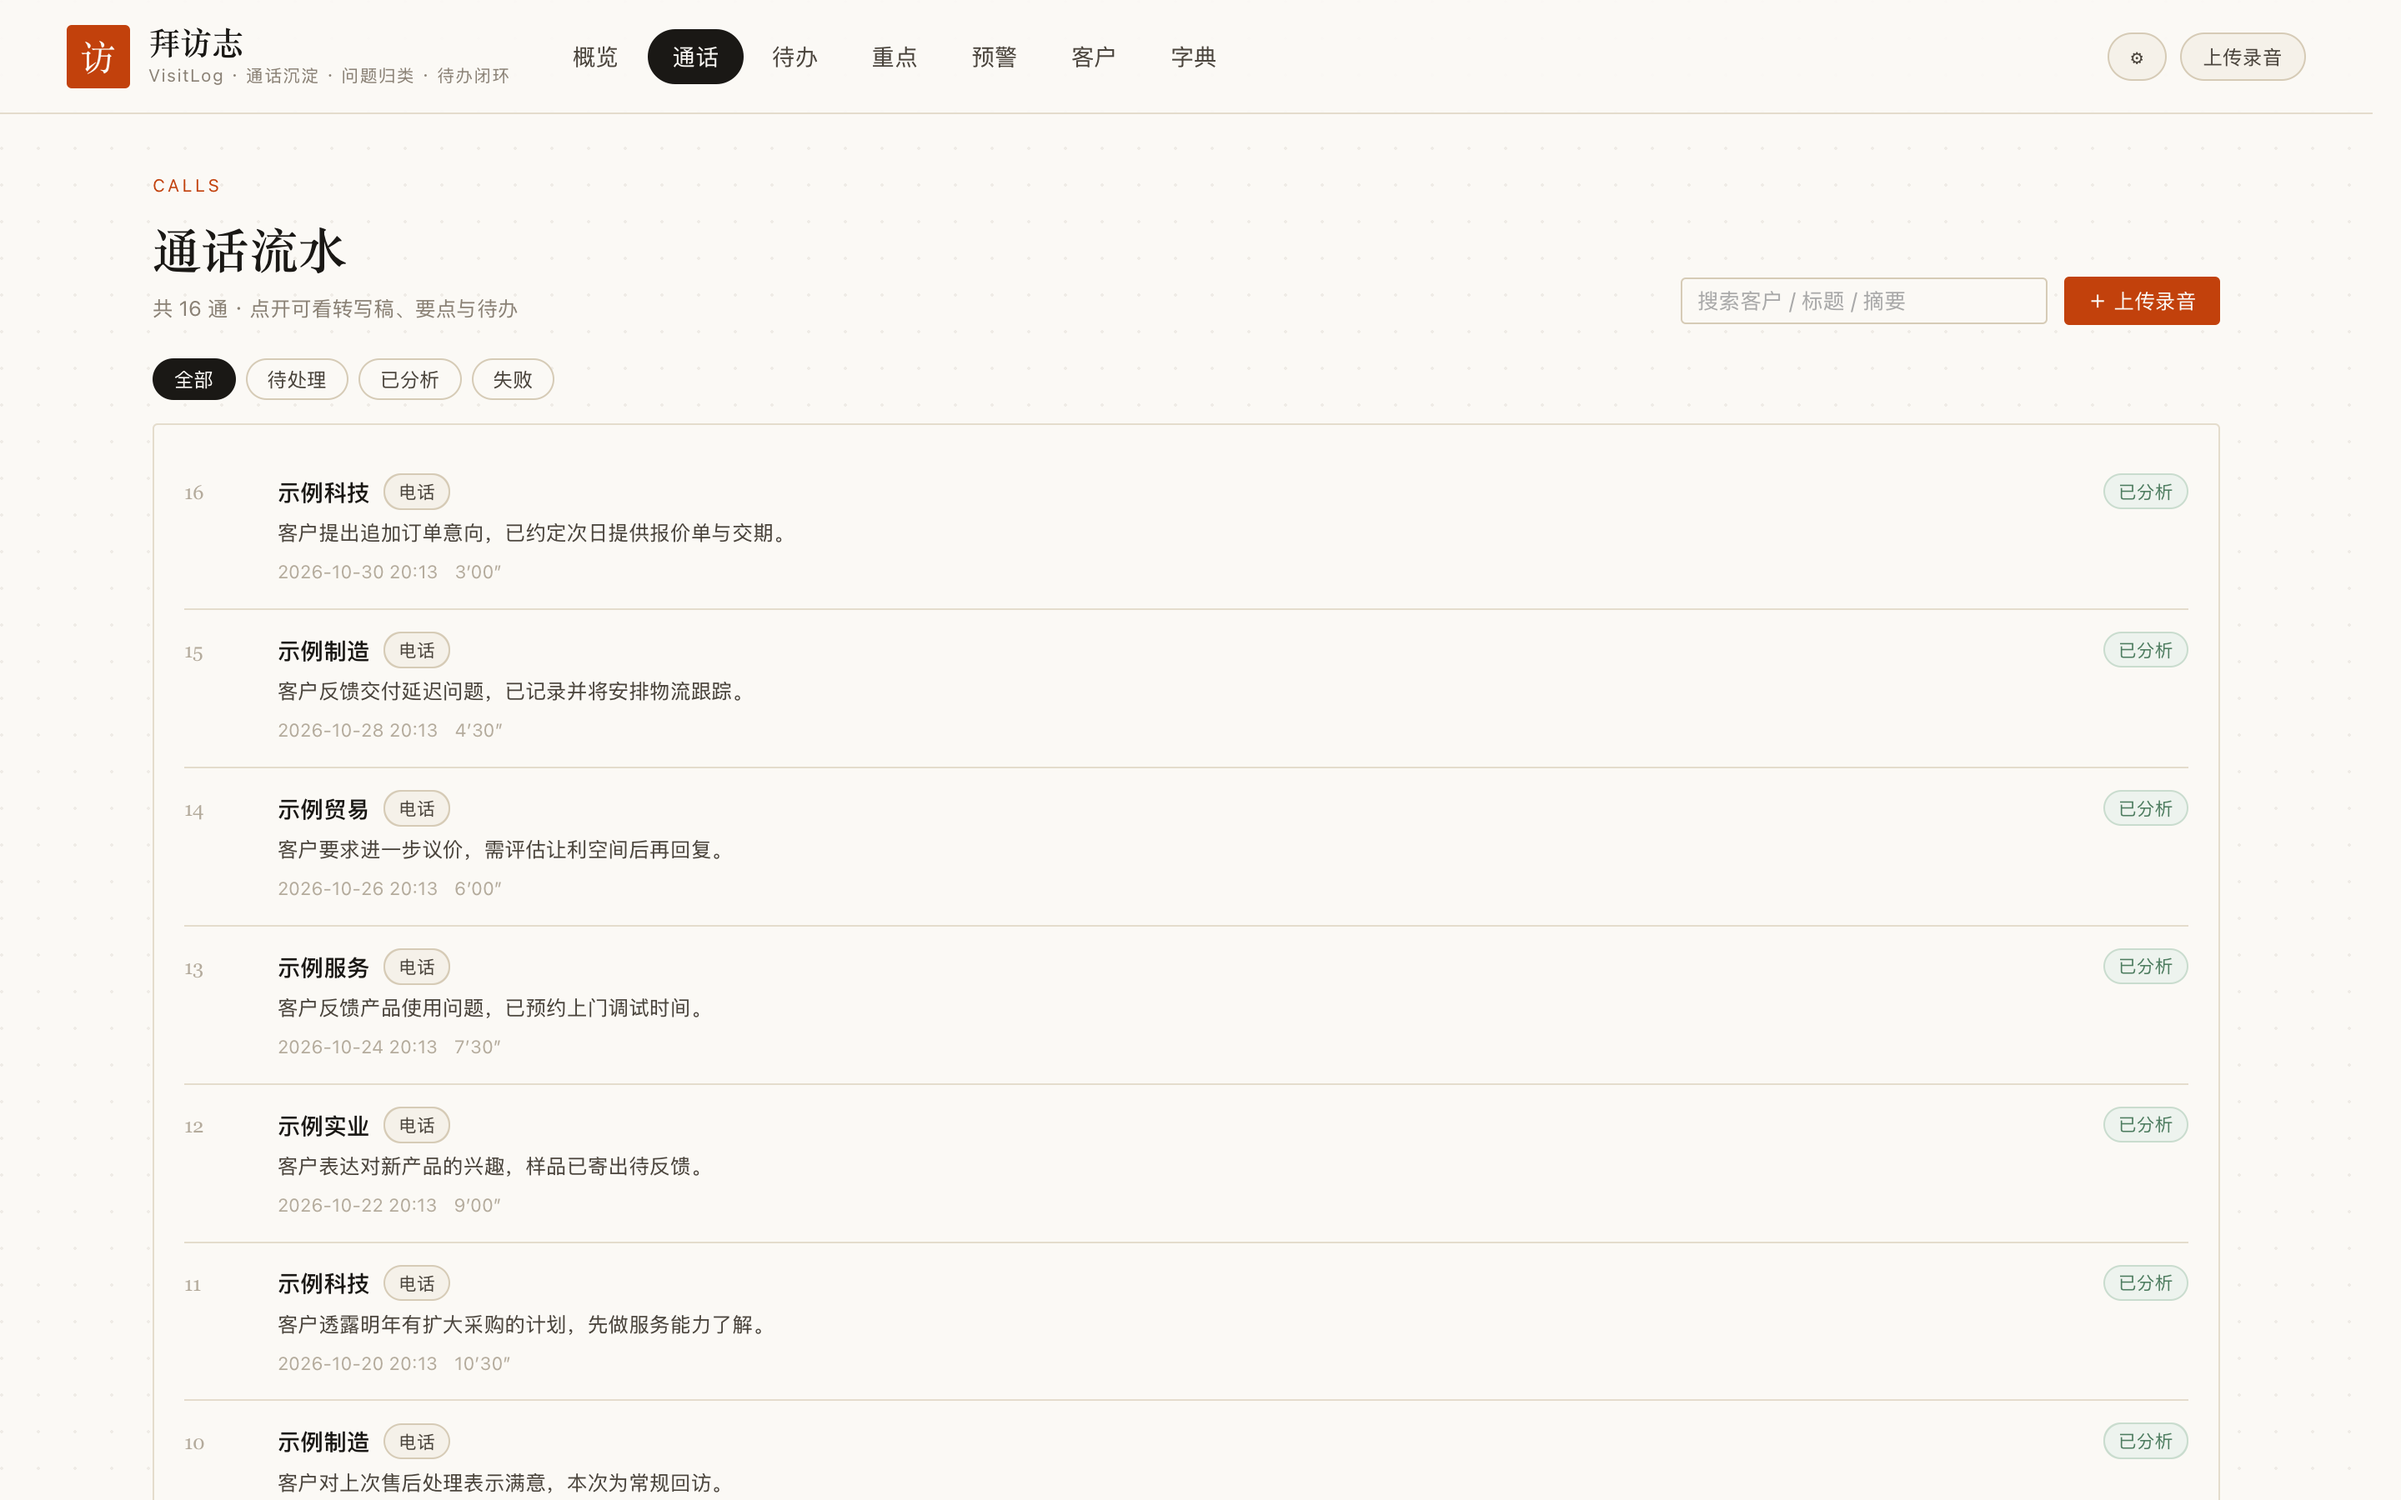
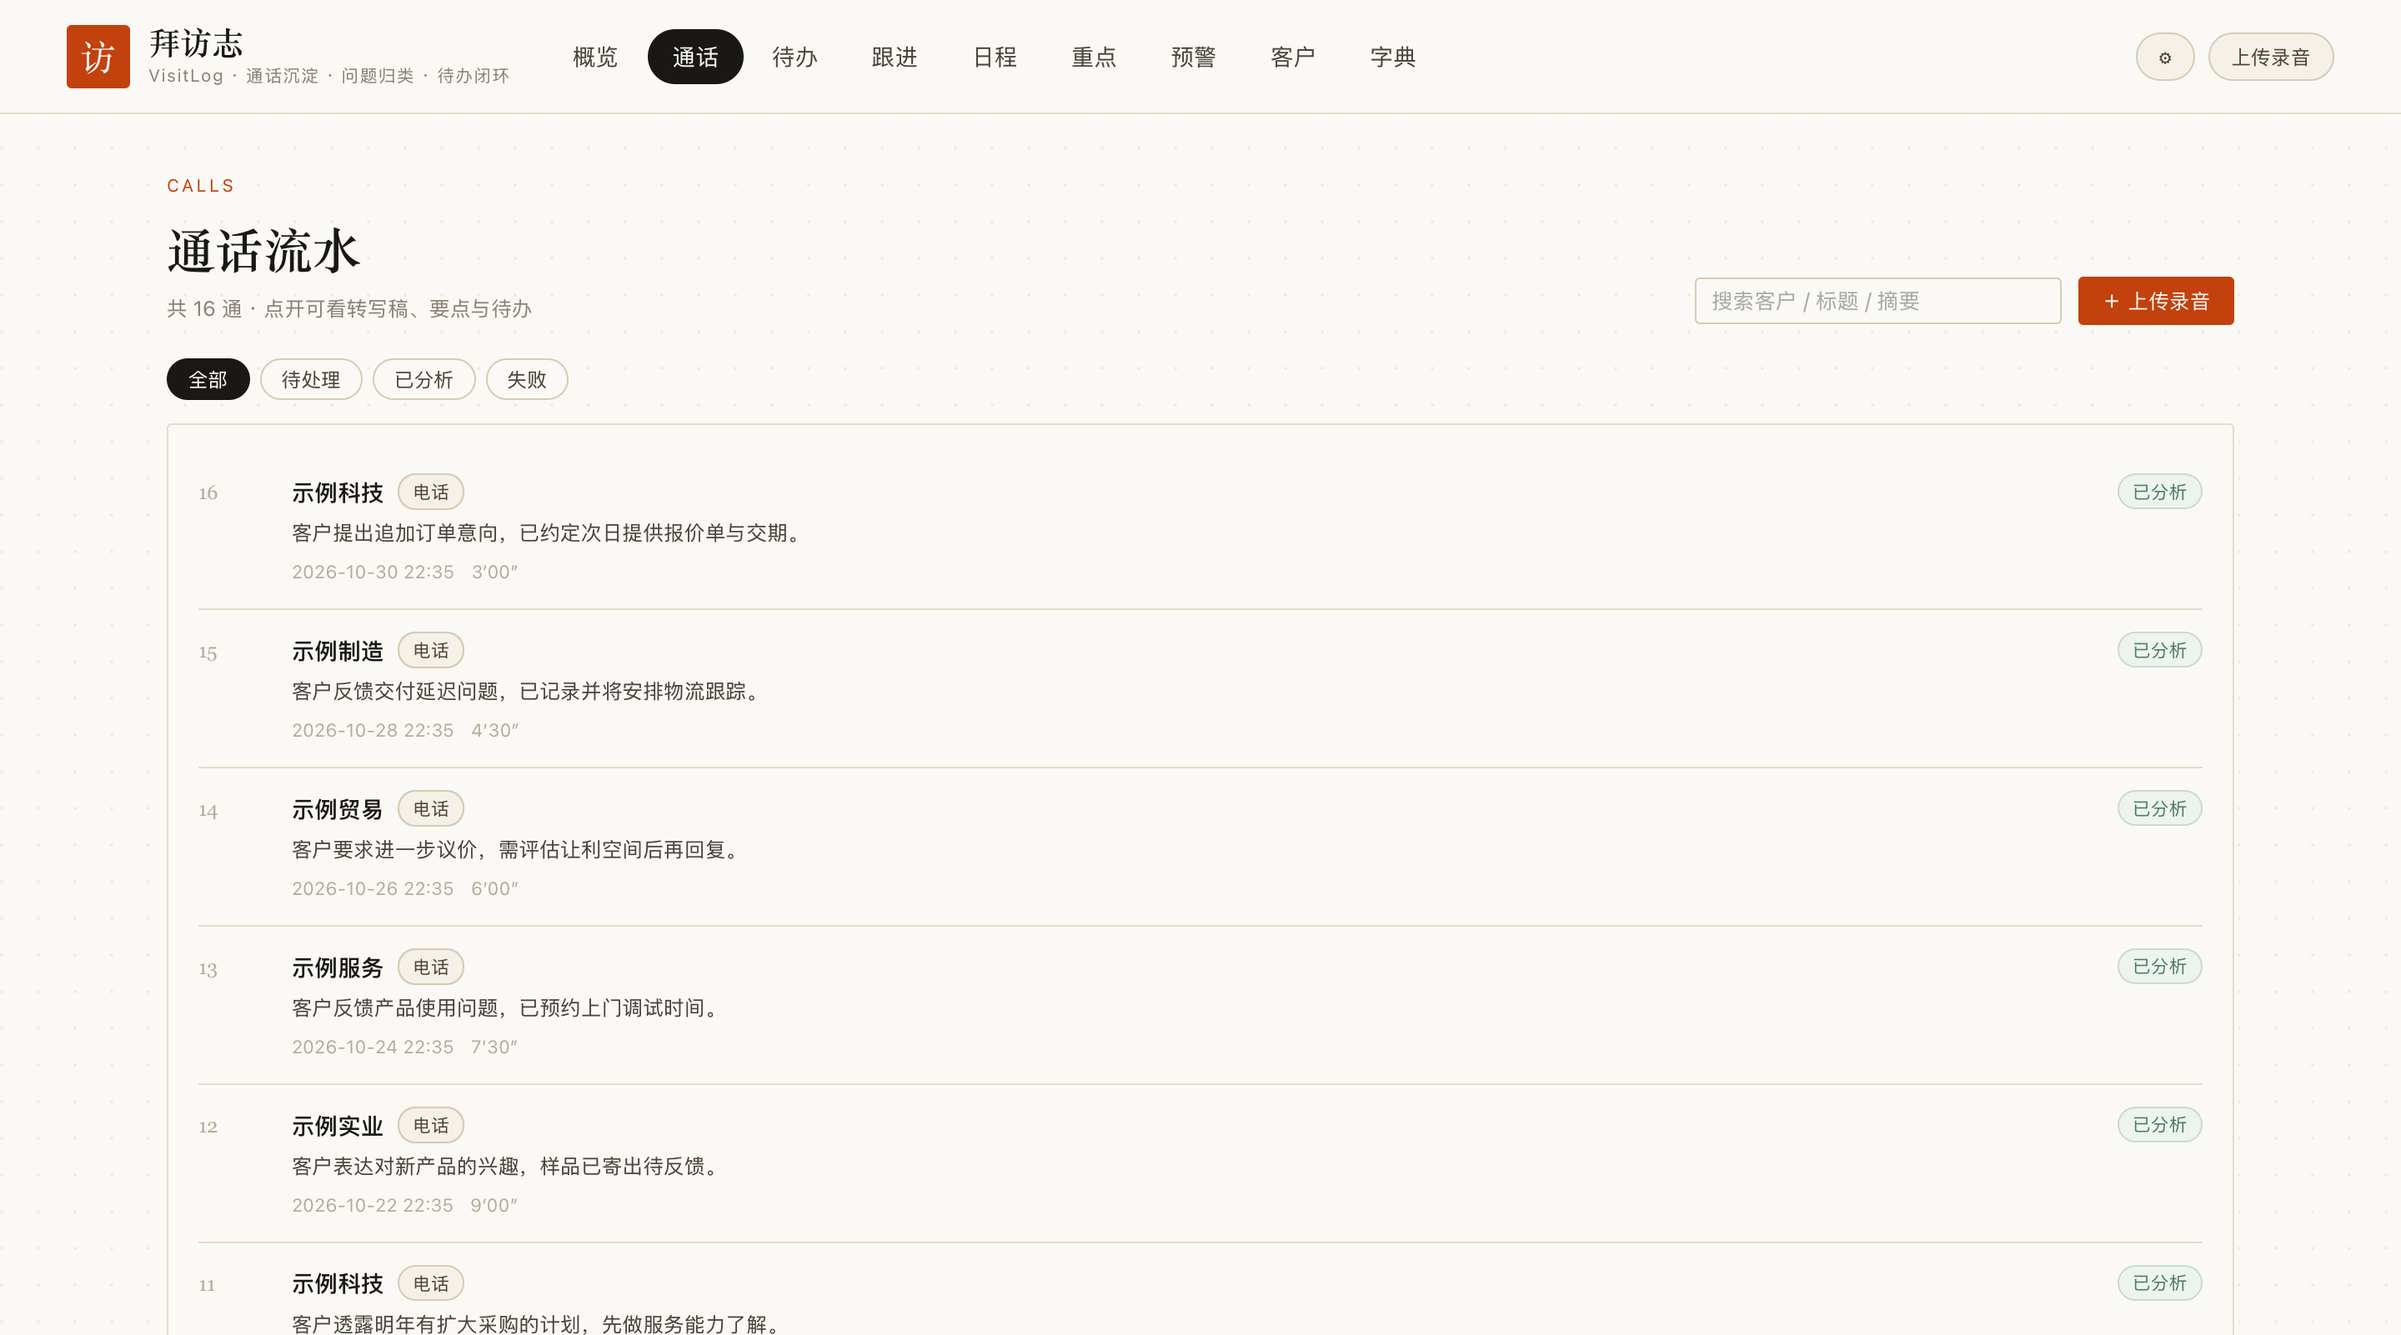
fix: 日程落点不再暴露本机路径；重做界面截图
日程落点（原 _日程速记 目录）：
- 原实现用 path.resolve(ROOT, '..', '_日程速记')，写到项目目录之外，
  且接口把绝对路径原样回传给前端，在界面上直接显示本机目录结构
- 改为默认落在项目内 data/journal/，可用环境变量 VL_JOURNAL_DIR 自定义
- 接口只回传目录名（path.basename），不回传绝对路径

界面截图：
- 全部重做为 10-30 合并后的最新界面（导航已含跟进唤醒台与日程）
- README 首屏从 4 张扩到 6 张，新增跟进唤醒台与日程速记
- 概览页仍不放：headless WKWebView 不渲染 ECharts 数据图形（WebKit 缺陷，
  已用 ECharts 官方最简 demo 复现，与本项目代码无关）

diff --git a/server/api_journal.js b/server/api_journal.js
@@ -1,11 +1,16 @@
 // 拜访志 · 日程速记（线下活动补录）
-// 落点：<WorkBuddy根>\_日程速记\YYYY-MM-DD.md，供每日复盘自动化合并进时间轴
+// 落点：<日程目录>\YYYY-MM-DD.md，每行一条，便于外部自动化读取
 // 行格式：HH:MM-HH:MM 事件   或   HH:MM 事件
+//
+// 目录通过环境变量 VL_JOURNAL_DIR 配置；未配置时落在项目内的 data/journal/，
+// 不会写到项目目录之外。
 const fs = require('fs');
 const path = require('path');
 const { ROOT } = require('./db.js');
 
-const DIR = path.resolve(ROOT, '..', '_日程速记');
+const DIR = process.env.VL_JOURNAL_DIR
+  ? path.resolve(process.env.VL_JOURNAL_DIR)
+  : path.join(ROOT, 'data', 'journal');
 const DATE_RE = /^\d{4}-\d{2}-\d{2}$/;
 const ITEM_RE = /^(\d{1,2}:\d{2})\s*(?:[-~–—至]\s*(\d{1,2}:\d{2}))?\s+(.+)$/;
 
@@ -67,7 +72,12 @@ module.exports = {
     const date = normDate(q);
     const raw = readRaw(date);
     const items = sortMarks(parse(raw));
-    return { ok: true, date, items, count: items.length, dir: DIR, exists: !!raw };
+    return {
+    ok: true, date, items, count: items.length,
+    // 只回传目录名，不回传绝对路径：避免在界面上暴露本机目录结构
+    dir: path.basename(DIR),
+    exists: !!raw,
+  };
   },
 
   // 追加一条（也可一次传多条）

diff --git a/README.md b/README.md
@@ -8,18 +8,26 @@
 <table>
 <tr>
 <td width="50%"><img src="docs/screenshot/calls.png" alt="通话流水"></td>
-<td width="50%"><img src="docs/screenshot/customers.png" alt="客户档案"></td>
+<td width="50%"><img src="docs/screenshot/followups.png" alt="跟进唤醒台"></td>
 </tr>
 <tr>
 <td align="center"><b>通话流水</b> — 每通电话的摘要、时长、分析状态</td>
-<td align="center"><b>客户档案</b> — 联系人、跟进人、沉默天数、拜访次数</td>
+<td align="center"><b>跟进唤醒台</b> — 按沉默天数分层，配可编辑话术点</td>
 </tr>
 <tr>
 <td width="50%"><img src="docs/screenshot/todos.png" alt="待办事项"></td>
+<td width="50%"><img src="docs/screenshot/journal.png" alt="日程速记"></td>
+</tr>
+<tr>
+<td align="center"><b>待办事项</b> — 按客户分组、超期高亮、到期日自动避让休假日</td>
+<td align="center"><b>日程速记</b> — 线下活动补录，按天落成 Markdown</td>
+</tr>
+<tr>
+<td width="50%"><img src="docs/screenshot/customers.png" alt="客户档案"></td>
 <td width="50%"><img src="docs/screenshot/dict.png" alt="问题字典"></td>
 </tr>
 <tr>
-<td align="center"><b>待办事项</b> — 按客户分组、超期高亮、优先级与到期日</td>
+<td align="center"><b>客户档案</b> — 联系人、跟进人、沉默天数、拜访次数</td>
 <td align="center"><b>问题字典</b> — 分类体系与术语纠错，改判在此反哺</td>
 </tr>
 </table>

diff --git a/CHANGELOG.md b/CHANGELOG.md
@@ -16,6 +16,7 @@
 - **聊点话术表**：`fu_talkpoints` 表 + 通用示例种子脚本
 
 ### 修复
+- **日程落点暴露本机路径**：落盘目录原为「项目目录的父级」，会写到项目之外；改为默认落在项目内 `data/journal/`，可用 `VL_JOURNAL_DIR` 自定义，界面只显示目录名不回传绝对路径
 - **零依赖模式上传失效**：原生 multipart 解析器在文件落盘前就交给上层读取，报 `ENOENT`
 - **改判反哺崩溃**：`ownerName()` 被误写进 SQL 字符串，被 SQLite 当作函数调用
 - **AI 返回空字段会清空已有摘要**：空串未被当作「未提供」处理
